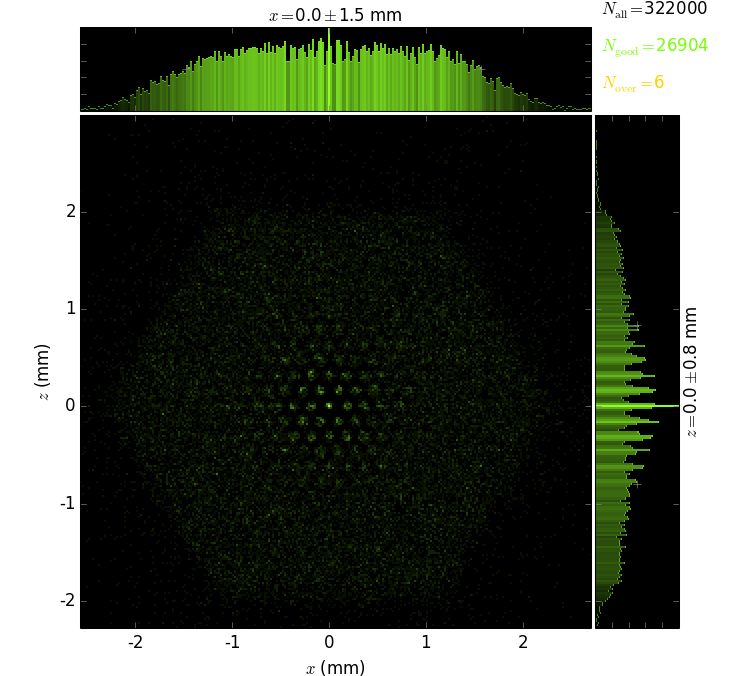
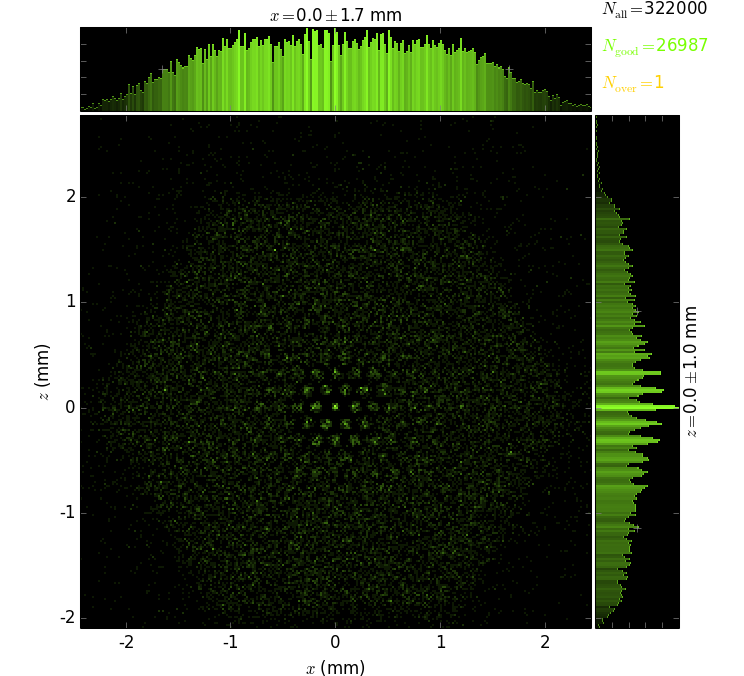
d = f+275

diff --git a/myCapillary0A.py b/myCapillary0A.py
@@ -126,7 +126,7 @@ def build_beamline(nrays=1000):
 #    beamLine.sources[0].dxprime = (np.arcsin((2*n-3) * (r0+wall) / rSample),
 #        np.arcsin((2*n+1) * (r0+wall) / rSample))
 #    beamLine.sources[0].dxprime = 0, np.arcsin(r0 / rSample)
-    beamLine.fsm2 = rsc.Screen(beamLine, 'DiamondFSM2', (0, f+250, 0))
+    beamLine.fsm2 = rsc.Screen(beamLine, 'DiamondFSM2', (0, f+275, 0))
     return beamLine
 
 def run_process(beamLine, shineOnly1stSource=False):
